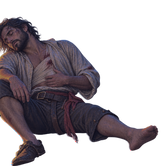
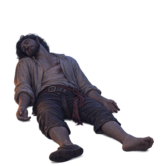
feat(example): produce the sailor's dead Appearance as generated artwork
The finale shipped with a dead Appearance derived from the wounded Art
Master, because no image generator was reachable when it was authored. It
read as the same seated man tilted back rather than as a body.

Generate the pose instead, editing the wounded Art Master at high input
fidelity so the man, his clothing and the dusk light carry over while the
life goes out of him. Fit the Runtime image by matching his head to the
size it has in the living Appearance — the one invariant between a seated
pose and a lying one — which keeps the cell and the Visual Anchor
unchanged, so nothing shifts on screen and the Character Definition needs
no change.

diff --git a/.scratch/detail-view-and-ending/issues/05-close-the-capri-1535-prologue.md b/.scratch/detail-view-and-ending/issues/05-close-the-capri-1535-prologue.md
@@ -30,7 +30,7 @@ his history unresolved as before.
 - [x] The contradiction is committed as its own Narrative Fact, learned only through the reading.
 - [x] The Detail View is dismissed before the death, so the Player watches it happen in the world.
 - [x] The sailor dies once the reading is complete, committed once through explicit Game Operations.
-- [~] The sailor has a newly produced dead Appearance: one static Runtime image at the corrected deck scale, in the same dusk light, with no presentation variants.
+- [x] The sailor has a newly produced dead Appearance: one static Runtime image at the corrected deck scale, in the same dusk light, with no presentation variants.
 - [x] Michele answers the death with a single authored beat that closes on his act rather than on Narration.
 - [x] The Game Session ends on a closing Detail View, and the Player is never returned to free roam beside the dead sailor.
 - [x] Ordinary playback and Sequence skipping commit identical canonical Game State.
@@ -50,12 +50,10 @@ his history unresolved as before.
 Implemented on `ticket/detail-view-and-ending/05-close-the-capri-1535-prologue`
 in two commits: the finale itself, then a pass that answers its own review.
 
-One acceptance criterion is **not** met as written, and it is the reason this
-ticket comes back to a human rather than being closed: the sailor's dead
-Appearance is a derivative of the existing Art Master, not newly produced
-artwork. No image-generation tool was reachable in the environment that
-implemented this (no built-in generator, and the `imagegen` skill's CLI
-fallback needs an `OPENAI_API_KEY` that is not set). Everything else below was
+One acceptance criterion could not be met when this ticket was implemented —
+the sailor's dead Appearance had to be derived from the existing Art Master,
+because no image-generation tool was reachable then. It has since been produced
+properly; see the closing note at the bottom. Everything else below was
 observed.
 
 Acceptance criteria, as observed:
@@ -96,12 +94,9 @@ Acceptance criteria, as observed:
 - **The dead Appearance.** One static Runtime image, `166x166` on the same
   `(83, 164)` Visual Anchor as the wounded and unconscious Appearances, every
   Facing reusing it, no presentation variants — the corrected `0.65` deck scale
-  the second comment asked for. But it is derived from `static-art-master.png`
-  by settling the body a further 12 degrees back about that anchor and grading
-  the life out of the colour, not generated. `art/characters/wounded-sailor/provenance.md`
-  records exactly that, and says what replacing it would take: a generated Art
-  Master for the dead pose, fitted to the same cell, with no change to the
-  Character Definition.
+  the second comment asked for. Originally derived from `static-art-master.png`;
+  replaced with generated artwork, as recorded in the closing note below and in
+  `art/characters/wounded-sailor/provenance.md`.
 - **Michele's single beat closes on his act.** One Line ("Riposa, marinaio…")
   followed by a Direction Step playing his `pick-up` Animation, then
   `end-game`. Nothing is narrated after him. He has no Animation authored for
@@ -162,3 +157,23 @@ Verification, as observed:
   Engine file is touched by this ticket.
 - `examples/capri-1535`: `npm run build` passes. `npm run verify` passes in
   full, 34 of 34, in 33.8 minutes.
+
+- 2026-08-18: the dead Appearance is now newly produced artwork, so the
+  criterion above is met. With `OPENAI_API_KEY` available, it was generated
+  through the `imagegen` skill's CLI fallback (`gpt-image-1.5`, edit mode) from
+  `static-art-master.png` at high input fidelity, so the man and his dusk light
+  carry over while the pose and the life in him change: the torso settled back
+  onto the deck, the head fallen back with the jaw slack, the hand slipped off
+  the bandages and open palm-up, the legs rolled outward. The untouched result
+  is kept as `art/characters/wounded-sailor/dead-art-master.png`.
+
+  The Runtime image was scaled so his head measures what it measures in
+  `static.png` — the one physical invariant between a seated pose and a lying
+  one — which lands the body at `142x133` inside the unchanged `166x166` cell on
+  the unchanged `(83, 164)` Visual Anchor, so the Character Definition needed no
+  change. It then took the family grade one step colder than the living
+  Appearance: brightness `74%`, saturation `55%`, a `14%` indigo tint.
+
+  Verified: the Example builds and `test/drifting-boat.spec.ts` passes. The full
+  Example acceptance suite was started and stopped before it reported, so it has
+  not been run against this artwork.

diff --git a/examples/capri-1535/art/characters/wounded-sailor/provenance.md b/examples/capri-1535/art/characters/wounded-sailor/provenance.md
@@ -20,21 +20,29 @@ and one-frame presentation; there are no visual variants.
 
 ## The dead Appearance
 
-The prologue now ends over the sailor's body, so the Character carries a second
+The prologue ends over the sailor's body, so the Character carries a second
 Runtime image, `src/characters/wounded-sailor/dead.png`, at the same `166x166`
 deck scale and on the same `(83, 164)` Visual Anchor: nothing shifts on screen
-when he stops breathing. The body has settled a further `12` degrees back onto
-the deck, rotated about that same anchor so the ground contact cannot drift, and
-the grade drops to brightness `72%` and saturation `52%` under a `15%` indigo
-tint, which takes the coral rim light out of him without changing the dusk he
-lies in.
+when he stops breathing.
 
-It was derived from `static-art-master.png` rather than generated: no
-image-generation tool was reachable in the environment that authored it. A
-newly generated Art Master for the dead pose — the head fallen, the hand slipped
-from the bandages — would replace it without touching the Character Definition,
-because both Appearances reference one static image apiece at the same cell size
-and anchor.
+`dead-art-master.png` is the untouched `1024×1024` generated result behind it,
+produced on 2026-08-18 through the `imagegen` skill's CLI fallback against the
+OpenAI image API — `gpt-image-1.5`, edit mode, `static-art-master.png` supplied
+at high input fidelity so the man, his clothing, his bandage and the dusk key
+light carry over unchanged. The prompt asked only for the pose and the life to
+change: the torso settled back onto the deck, the head fallen back with the jaw
+slack, the hand slipped off the bandages and lying open palm-up, the legs
+relaxed and rolled outward, the skin drained. It prohibited gore, props, text,
+other figures and any ground, shadow or scenery, and the generated source
+carries native alpha, so no chroma removal was necessary.
+
+The Runtime image is Lanczos-fitted from it at the scale that keeps his head
+the size it is in `static.png`, which lands the body at `142×133` inside the
+`166×166` cell, and is placed so its ground contact sits on the shared Visual
+Anchor. It then receives the Scene-matching derivative grade, one step colder
+and duller than the living Appearance: brightness `74%`, saturation `55%`, a
+`14%` indigo dusk tint and the same `0.25 px` edge-softening blur. The Art
+Master remains unchanged.
 
 `actual-size-diagnostic.png` presents that `256×256` Runtime cell at 1:1 inside
 the `1280×720` Logical Resolution, with its cell bounds and Visual Anchor drawn.
